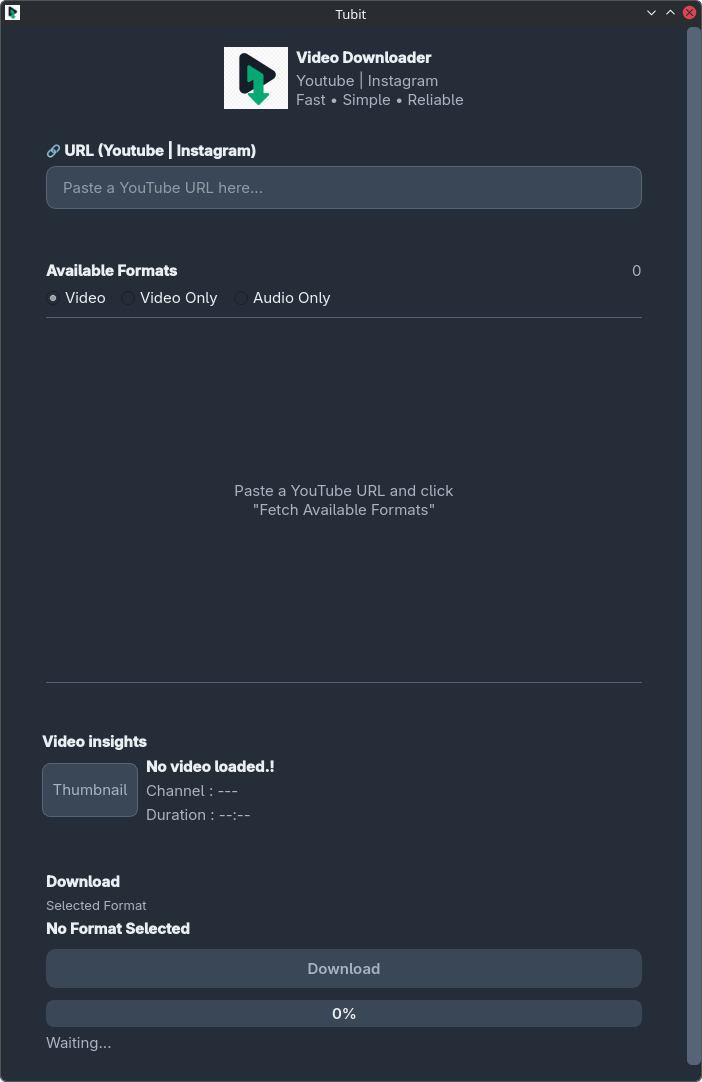
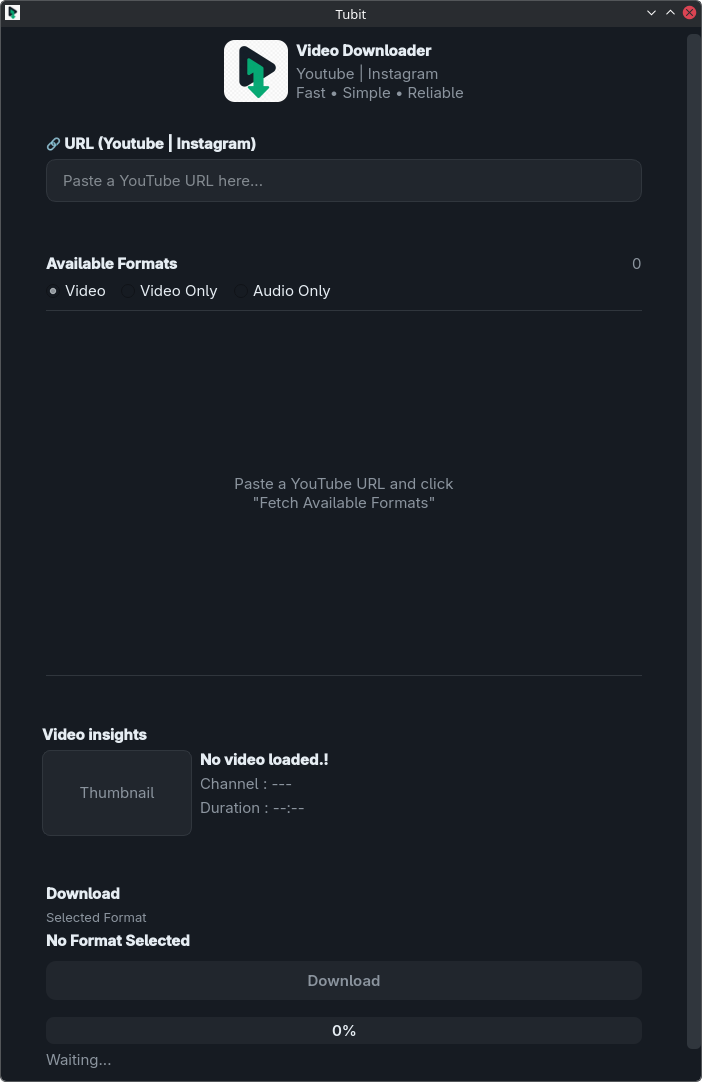
feat(ui): update thumbnail pixmap size & main window sample

diff --git a/gui.py b/gui.py
@@ -306,7 +306,7 @@ class TubitUI(QMainWindow):
         # ==================================================
         # Thumnail placeholder
         self.thumbnail = QLabel()
-        self.thumbnail.setFixedSize(96, 54)
+        self.thumbnail.setFixedSize(150, 86)
         self.thumbnail.setAlignment(Qt.AlignmentFlag.AlignCenter)
 
         self.thumbnail.setStyleSheet(f"""
